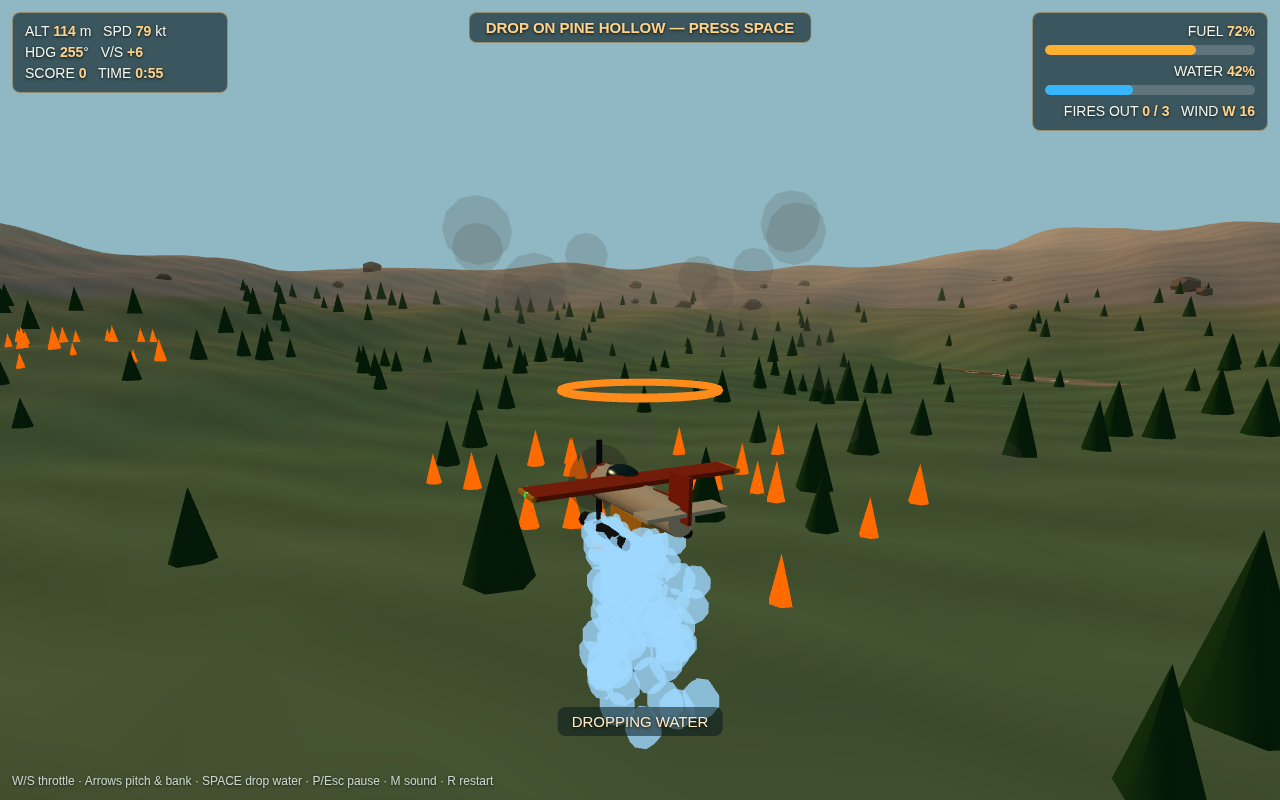
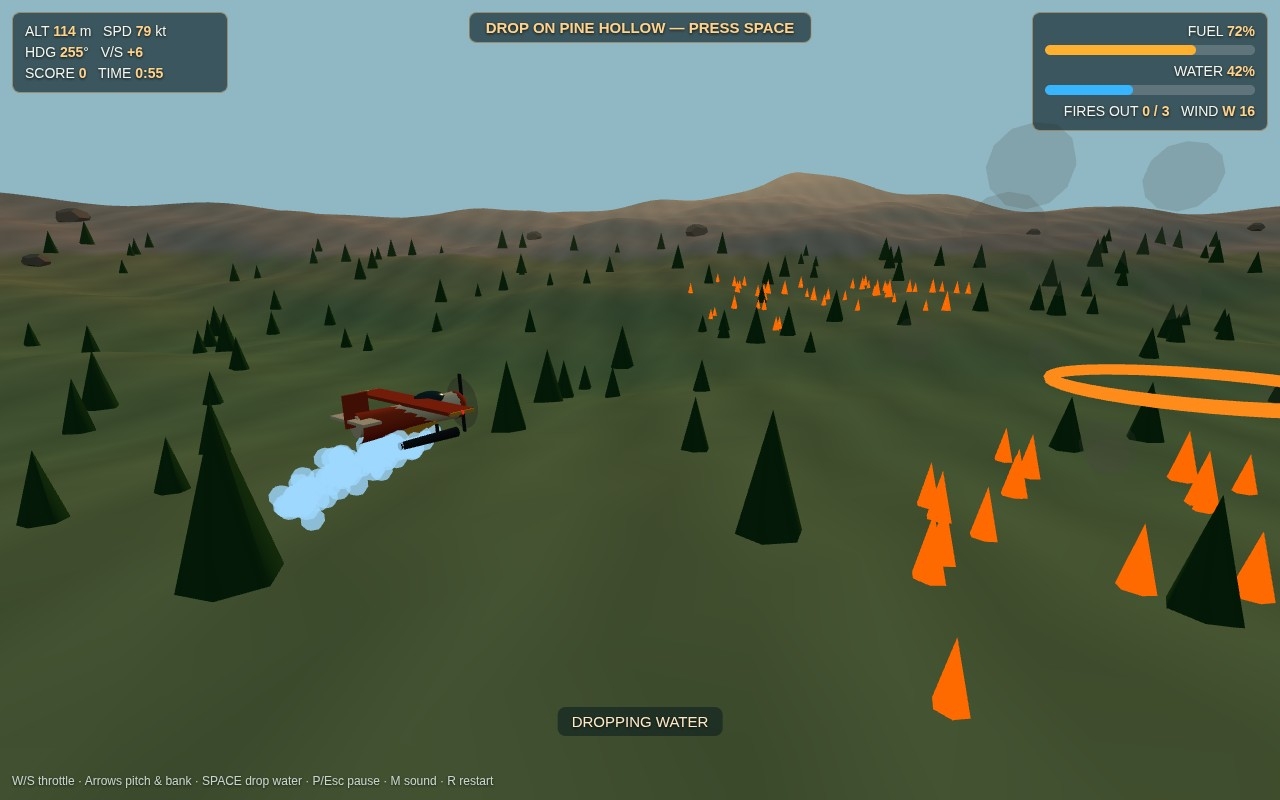
Rename to Smokewing; restage drop + approach shots
- Rename ASHWING to SMOKEWING (rival already uses Ashwing in this competition)
- Drop shot: side-profile camera, clearly distinct from the cover
- Approach shot: wings-level, centreline final so the strip is centred
- Shots 1 and 3 unchanged (mission banner only, no game name shown)

diff --git a/game/src/main.js b/game/src/main.js
@@ -1,4 +1,4 @@
-// ASHWING — Wildfire Airtanker. Entry point: builds the world, runs the loop, and stages
+// SMOKEWING — Wildfire Airtanker. Entry point: builds the world, runs the loop, and stages
 // deterministic screenshot scenes (?shot=cover|drop|scoop|approach&seed=1).
 import { createRandom } from './random.js';
 import { WORLD, SHOT } from './config.js';
@@ -113,9 +113,28 @@ function updateCamera(world, dt) {
   const f = world.flight;
   const fx = Math.sin(f.heading);
   const fz = -Math.cos(f.heading);
-  const tx = f.x - fx * 48;
-  const ty = f.y + 13;
-  const tz = f.z - fz * 48;
+  let tx, ty, tz, lx, ly, lz;
+  if (world.shotCam === 'side') {
+    // Side profile for the drop shot: the camera sits abeam the plane and looks just ahead
+    // of it, so the plane stays in frame while the water column and the fire line ahead
+    // both read. (lookAt only a little ahead: aiming 60 out pushed the plane to the
+    // frame edge, because the view axis swung past it.)
+    const rx = Math.cos(f.heading);
+    const rz = Math.sin(f.heading);
+    tx = f.x + rx * 70;
+    ty = f.y + 14;
+    tz = f.z + rz * 70;
+    lx = f.x + fx * 25;
+    ly = f.y;
+    lz = f.z + fz * 25;
+  } else {
+    tx = f.x - fx * 48;
+    ty = f.y + 13;
+    tz = f.z - fz * 48;
+    lx = f.x + fx * 55;
+    ly = f.y + 1;
+    lz = f.z + fz * 55;
+  }
   if (!camInit) {
     camPos.x = tx; camPos.y = ty; camPos.z = tz;
     camInit = true;
@@ -128,7 +147,7 @@ function updateCamera(world, dt) {
   const ground = groundHeight(camPos.x, camPos.z);
   if (camPos.y < ground + 4) camPos.y = ground + 4;
   world.camera.position.set(camPos.x, camPos.y, camPos.z);
-  world.camera.lookAt(f.x + fx * 55, f.y + 1, f.z + fz * 55);
+  world.camera.lookAt(lx, ly, lz);
 }
 
 function showOverlay(html) {
@@ -143,7 +162,7 @@ function hideOverlay() {
 }
 
 function titleCard() {
-  return `<div class="card"><h1>ASHWING</h1><h2>WILDFIRE AIRTANKER &mdash; Pine Hollow Valley</h2>
+  return `<div class="card"><h1>SMOKEWING</h1><h2>WILDFIRE AIRTANKER &mdash; Pine Hollow Valley</h2>
   <p>Three fires are spreading downwind across the valley. Take off from the dirt strip,
   skim the lake low and level to scoop a full tank, then drop it on the fire front.
   A full tank is heavy and thirsty &mdash; watch your fuel, mind the smoke, and land back
@@ -223,7 +242,7 @@ if (shot) {
     }
     if (edges.pause && world.state.screen === SCREEN_PLAY) {
       paused = !paused;
-      world.state.banner = paused ? 'PAUSED — press P to resume' : 'ASHWING — WILDFIRE AIRTANKER';
+      world.state.banner = paused ? 'PAUSED — press P to resume' : 'SMOKEWING — WILDFIRE AIRTANKER';
     }
     if (world.state.screen === SCREEN_TITLE) {
       if (frame.anyKey) { audio.ensure(); world.startPlay(); }

diff --git a/game/src/shots.js b/game/src/shots.js
@@ -124,22 +124,31 @@ export function stageShot(name, world) {
       if (name === 'cover') return st.water <= 78 && st.water > 0 && world.water.dropping;
       return st.water <= 42 && st.water > 0;
     }, 240);
+    // The drop shot is staged from a side profile instead of the chase view, so the
+    // contact sheet shows a different moment from the cover: the plane abeam, the water
+    // column falling, and the fire line ahead of it.
+    if (name === 'drop') world.shotCam = 'side';
   } else if (name === 'approach') {
     // Final approach from the WEST, landing eastbound: the valley west of the strip is low,
     // so the plane can descend gently onto final. (An eastbound final failed twice — the
-    // eastern ridge is too high to drop behind.) The shot only ends once the plane is
-    // lined up with the runway — a frame mid-turn shows the valley, not the strip.
+    // eastern ridge is too high to drop behind.) The last leg runs straight down the runway
+    // centreline, so the shot only ends once the wings are level, the heading is on the
+    // runway, and the strip is centred in front of the plane — a frame mid-turn shows
+    // the valley, not the strip.
     const finalX = strip.x - 320;
     const finalY = groundHeight(finalX, strip.z) + 22;
     flyPlan(world, [
       { x: strip.x - 500, z: strip.z - 100, alt: 150, radius: 150 },
       { x: strip.x - 700, z: strip.z + 400, alt: 120, radius: 150 },
-      { x: strip.x - 300, z: strip.z + 350, alt: 80, radius: 90 },
+      { x: strip.x - 600, z: strip.z, alt: 100, radius: 90 },
       { x: finalX, z: strip.z, alt: finalY, radius: 60 },
     ], (st) => {
-      const aligned = Math.abs(headingError(st.flight.heading, Math.PI / 2)) < 0.45;
-      return aligned && dist2d(st.flight.x, st.flight.z, finalX, strip.z) < 80
-        && st.flight.y < groundHeight(finalX, strip.z) + 40;
+      const aligned = Math.abs(headingError(st.flight.heading, Math.PI / 2)) < 0.15;
+      const level = Math.abs(st.flight.roll) < 0.12;
+      const onCentreline = Math.abs(st.flight.z - strip.z) < 25;
+      return aligned && level && onCentreline
+        && dist2d(st.flight.x, st.flight.z, finalX, strip.z) < 60
+        && st.flight.y < groundHeight(finalX, strip.z) + 35;
     }, 240);
   }
   return { screen: s.screen };

diff --git a/game/index.html b/game/index.html
@@ -3,7 +3,7 @@
 <head>
 <meta charset="utf-8">
 <meta name="viewport" content="width=device-width, initial-scale=1">
-<title>ASHWING — Wildfire Airtanker</title>
+<title>SMOKEWING — Wildfire Airtanker</title>
 <link rel="icon" href="data:,">
 <style>
   html, body { margin: 0; height: 100%; overflow: hidden; background: #0e2a30; font-family: Verdana, Geneva, sans-serif; }
@@ -31,7 +31,7 @@
 </style>
 </head>
 <body>
-<canvas id="game" aria-label="ASHWING wildfire airtanker: scoop lake water and drop it on the spreading fires"></canvas>
+<canvas id="game" aria-label="SMOKEWING wildfire airtanker: scoop lake water and drop it on the spreading fires"></canvas>
 <div id="hud">
   <div class="panel" id="hud-left">
     ALT <b id="hud-alt">0</b> m &nbsp; SPD <b id="hud-spd">0</b> kt<br>
@@ -43,7 +43,7 @@
     WATER <b id="hud-water">0%</b><div class="bar"><div id="water-fill"></div></div>
     FIRES OUT <b id="hud-fires">0 / 3</b> &nbsp; WIND <b id="hud-wind">W 12</b>
   </div>
-  <div id="banner">ASHWING &mdash; WILDFIRE AIRTANKER</div>
+  <div id="banner">SMOKEWING &mdash; WILDFIRE AIRTANKER</div>
   <div id="msg"></div>
   <div id="help">W/S throttle &middot; Arrows pitch &amp; bank &middot; SPACE drop water &middot; P/Esc pause &middot; M sound &middot; R restart</div>
 </div>

diff --git a/game/src/tanker.js b/game/src/tanker.js
@@ -1,9 +1,9 @@
-// The ASHWING airtanker, built from primitives: red-and-cream single-engine tanker with a
+// The SMOKEWING airtanker, built from primitives: red-and-cream single-engine tanker with a
 // belly tank, high wing, floats and a spinning prop. No textures, no external assets.
 export function buildTanker() {
   const THREE = window.THREE;
   const plane = new THREE.Group();
-  plane.name = 'ashwing';
+  plane.name = 'smokewing';
 
   const red = new THREE.MeshLambertMaterial({ color: 0xc23a1e });
   const cream = new THREE.MeshLambertMaterial({ color: 0xf2e6c8 });

diff --git a/main.ts b/main.ts
@@ -1,4 +1,4 @@
-// ASHWING — Wildfire Airtanker entry program (Node 22, standard library only).
+// SMOKEWING — Wildfire Airtanker entry program (Node 22, standard library only).
 // It hands the game in: copies this repository's game/ and screenshots/ into the output
 // directory and writes /output/dossier.json with the vendored make.fun library.
 // Outside the grader, MAKEFUN_OUTPUT_DIR stands in for /output:

diff --git a/game/src/config.js b/game/src/config.js
@@ -1,4 +1,4 @@
-// Tunables for ASHWING — Wildfire Airtanker. One place for every number the flight model,
+// Tunables for SMOKEWING — Wildfire Airtanker. One place for every number the flight model,
 // the fire spread and the missions use, so a balance pass touches this file only.
 export const WORLD = {
   size: 2600,

diff --git a/game/src/missions.js b/game/src/missions.js
@@ -20,7 +20,7 @@ export function createMissionState() {
     zonesContained: 0,
     activeZoneIndex: 0,
     firesOut: 0,
-    banner: 'ASHWING — WILDFIRE AIRTANKER',
+    banner: 'SMOKEWING — WILDFIRE AIRTANKER',
     message: '',
     messageUntil: 0,
     wind: 1,

diff --git a/README.md b/README.md
@@ -1,4 +1,4 @@
-# ASHWING — Wildfire Airtanker
+# SMOKEWING — Wildfire Airtanker
 
 ![Best Flight Game](https://make.fun/badge/best-flight-game-20261126-0057.svg)
 ![Rank](https://make.fun/badge/best-flight-game-20261126-0057/junod1908/best-flight-game-20261126-0057/rank.svg)
